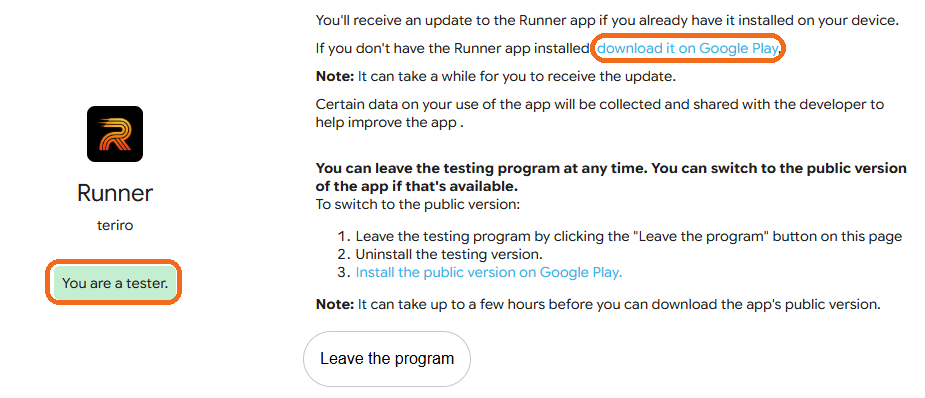
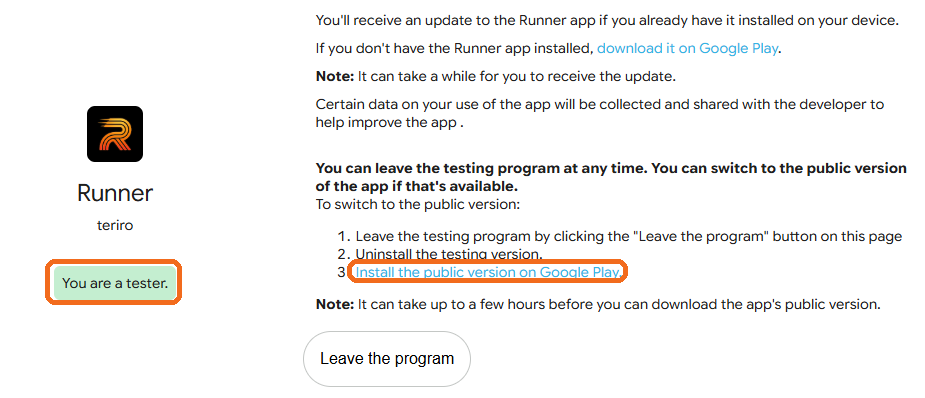
Point testers to the Install the public version link in step 3

Changed region(s): [[0.6357, 0.0603, 0.8476, 0.1809], [0.3632, 0.6332, 0.6962, 0.7236]]

diff --git a/docs/tester.html b/docs/tester.html
@@ -52,8 +52,8 @@
     <li>받은 <b>테스트 참여 링크</b>를 <b>그룹에 가입한 계정으로 로그인한 상태</b>에서 열고 <b>"테스터 되기"</b>를 눌러요.
       <figure><img src="img/tester_04_become.png" alt="Google Play 테스트 참여 페이지. Become a tester 버튼"><figcaption>"테스터 되기"(영어 화면은 "Become a tester")</figcaption></figure>
     </li>
-    <li>같은 페이지의 <b>"Google Play에서 다운로드"</b>로 앱을 설치해요.
-      <figure><img src="img/tester_05_download.png" alt="You are a tester 표시와 download it on Google Play 링크"><figcaption>"테스터가 되었습니다(You are a tester)"가 보이면 "Google Play에서 다운로드(download it on Google Play)"로 설치</figcaption></figure>
+    <li><b>"You are a tester"</b>(테스터가 되었습니다)가 보이면, 같은 페이지 아래쪽 3번 항목의 <b>"Install the public version on Google Play."</b> 링크를 눌러 Play 스토어에서 앱을 설치해요.
+      <figure><img src="img/tester_05_download.png" alt="You are a tester 표시와 Install the public version on Google Play 링크"><figcaption>"You are a tester" 확인 → "Install the public version on Google Play." 클릭 → 설치</figcaption></figure>
     </li>
     <li><b>14일 동안 삭제하지 말고</b> 가끔 열어 주세요. 그래야 테스터 인원에 잡혀요.</li>
   </ol>
